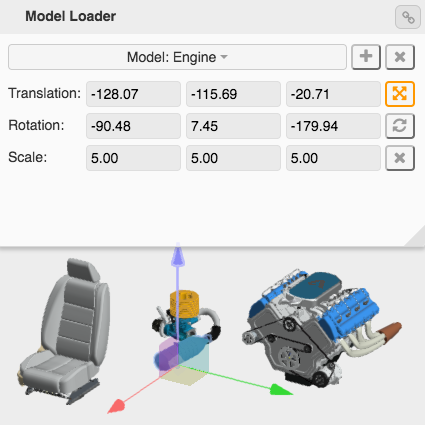
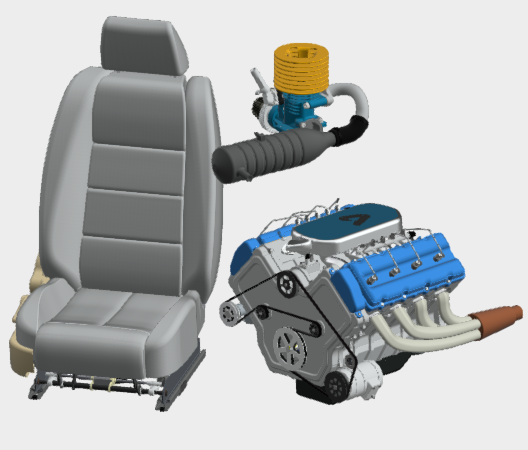
bug fix

diff --git a/src/client/viewer.components/Viewer.Extensions/Viewing.Extension.ModelLoader/Viewing.Extension.ModelLoader.js b/src/client/viewer.components/Viewer.Extensions/Viewing.Extension.ModelLoader/Viewing.Extension.ModelLoader.js
@@ -364,7 +364,7 @@ class ModelLoaderExtension extends ExtensionBase {
   /////////////////////////////////////////////////////////
   async setActiveModel (model, params = {}) {
 
-    if (options.fitToView) {
+    if (params.fitToView) {
 
       this.fitModelToView (model)
     }

diff --git a/src/client/viewer.components/Viewer.Configurator/Viewer.Configurator.js b/src/client/viewer.components/Viewer.Configurator/Viewer.Configurator.js
@@ -597,6 +597,8 @@ class ViewerConfigurator extends React.Component {
 
       viewer.start()
 
+      viewer.prefs.tag('ignore-producer')
+
       const ctrlGroup = this.createToolbar (viewer)
 
       const defaultOptions = {

diff --git a/src/client/routes/Configurator/ConfiguratorView/ConfiguratorHomeView/ConfiguratorHomeView.scss b/src/client/routes/Configurator/ConfiguratorView/ConfiguratorHomeView/ConfiguratorHomeView.scss
@@ -19,6 +19,8 @@
 
 .configurator-view .home .model-item .label-container {
   margin: 4px 0px 0px 8px;
+  font-family: initial;
+  font-size: larger;
 }
 
 @media screen and (min-width: 1000px) {

diff --git a/src/client/routes/Viewer/components/ViewerView.js b/src/client/routes/Viewer/components/ViewerView.js
@@ -297,6 +297,8 @@ class ViewerView extends React.Component {
 
       viewer.start()
 
+      viewer.prefs.tag('ignore-producer')
+
       switch (this.dbModel.env) {
 
         case 'Local':
